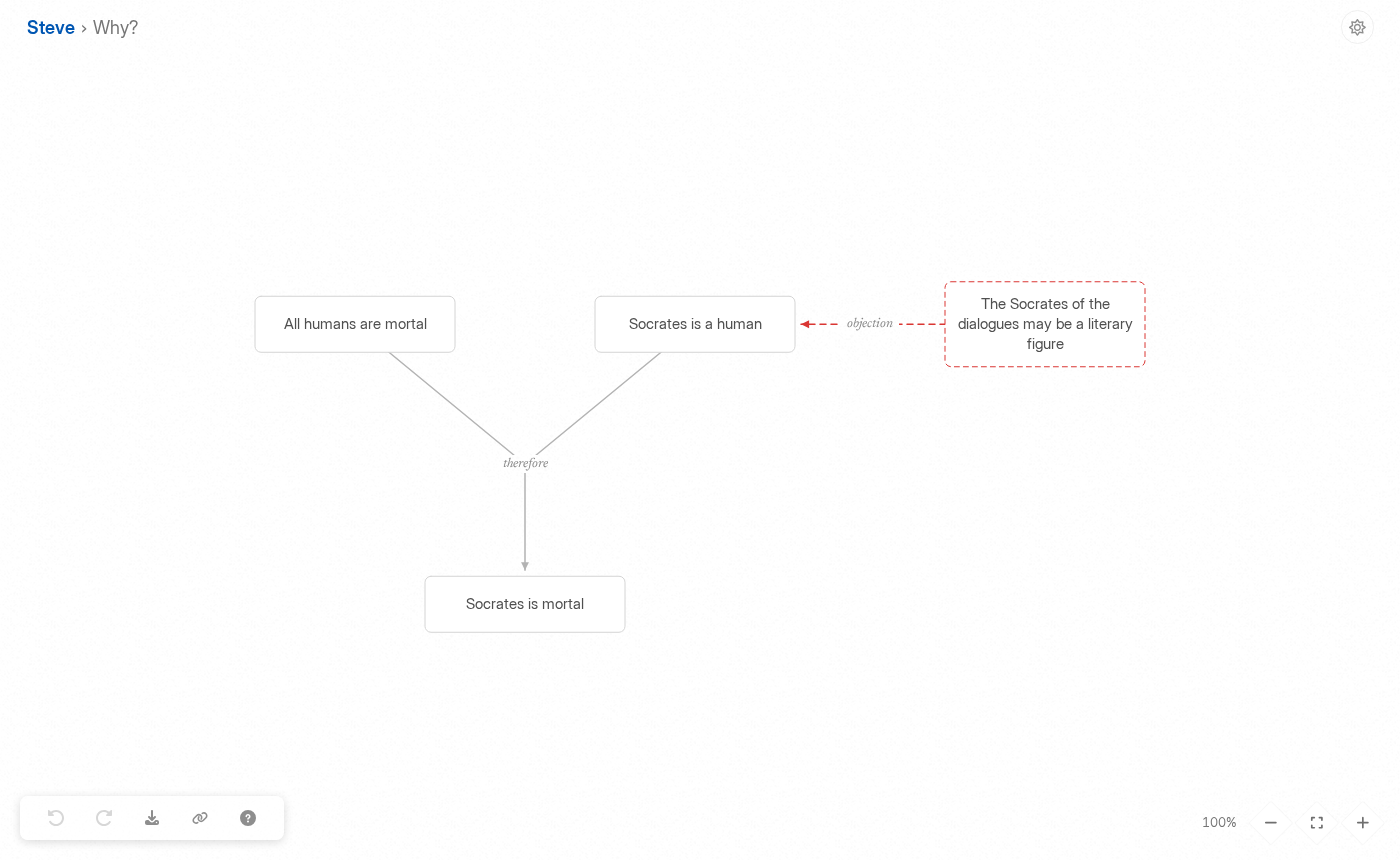
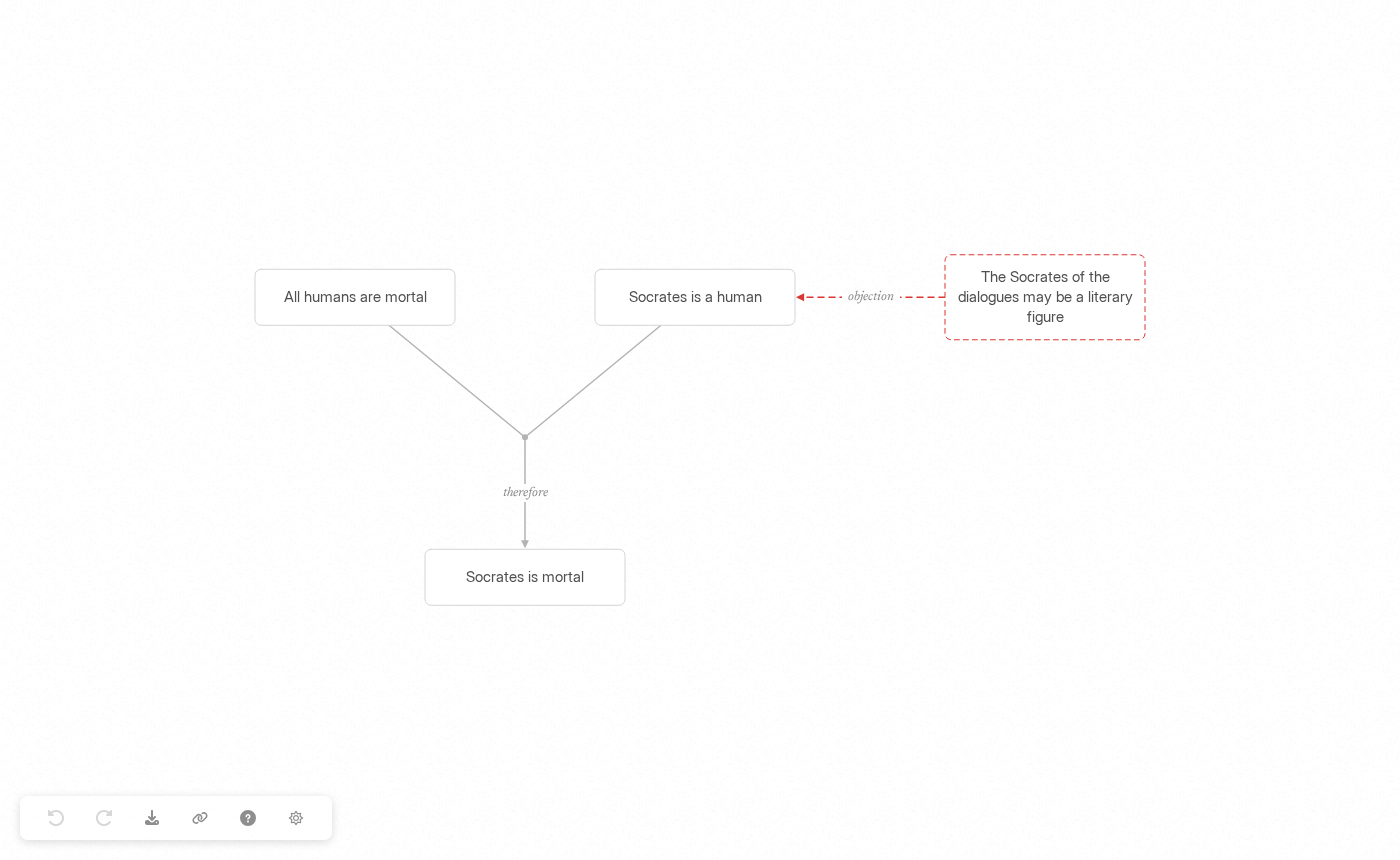
fix(ui): clean the space down to the menu and fit the arrows to the ideas
Route each link from the border of one idea to the border of the next, end
the line at the base of the arrowhead so no cap pokes past the tip, put the
tip on the target, and keep the label in the middle of the visible segment.
Remove the top bar, the breadcrumb, the zoom buttons and the empty-state hint,
move the light and dark switch into the floating menu, and update the tests,
the README and the images.

Claude-Session: https://claude.ai/code/session_01Xm9th7vZCS9qsYgGZBESBx

diff --git a/tests/e2e/app.spec.js b/tests/e2e/app.spec.js
@@ -20,10 +20,13 @@ async function canvasBox(page) {
   return page.locator('canvas.reasons-canvas').boundingBox();
 }
 
+async function scaleOf(page) {
+  return Number(await page.locator('main.workspace').getAttribute('data-scale'));
+}
+
 async function screenPoint(page, world) {
   const box = await canvasBox(page);
-  const level = await page.locator('.zoom .level').textContent();
-  const scale = parseInt(level, 10) / 100;
+  const scale = await scaleOf(page);
   return { x: box.x + box.width / 2 + world.x * scale, y: box.y + box.height / 2 + world.y * scale };
 }
 
@@ -40,10 +43,11 @@ test.beforeEach(async ({ page }) => {
 test('loads the default argument', async ({ page }) => {
   await expect(page).toHaveTitle('Think Why?');
   expect(await counts(page)).toEqual({ nodes: 3, edges: 1 });
-  await expect(page.getByRole('link', { name: 'Steve' })).toHaveAttribute('href', 'https://stevehoang.com');
+  await expect(page.getByRole('button', { name: 'Switch mode' })).toBeVisible();
   await expect(page.getByRole('button', { name: 'Undo' })).toBeDisabled();
   await expect(page.getByRole('button', { name: 'Redo' })).toBeDisabled();
-  await expect(page.locator('.zoom .level')).toHaveText(/\d+%/);
+  expect(await scaleOf(page)).toBeGreaterThan(0);
+  await expect(page.locator('.topbar, .breadcrumb, .zoom')).toHaveCount(0);
 });
 
 test('adds an idea by double-clicking empty space and saves it', async ({ page }) => {
@@ -117,18 +121,21 @@ test('keyboard selects, deletes, undoes and empties the map', async ({ page }) =
     await page.keyboard.press('Backspace');
   }
   await expect(page.locator('main.workspace')).toHaveAttribute('data-nodes', '0');
-  await expect(page.locator('.hint')).toContainText('Double-click anywhere to add a premise.');
-  await page.getByRole('button', { name: 'Fit to view' }).click();
-  await expect(page.locator('.zoom .level')).toHaveText('100%');
+  await page.keyboard.press('0');
+  await expect(page.locator('main.workspace')).toHaveAttribute('data-scale', '1.000');
 });
 
-test('zoom controls change the level and fit restores it', async ({ page }) => {
-  const level = page.locator('.zoom .level');
-  const before = await level.textContent();
-  await page.getByRole('button', { name: 'Zoom in' }).click();
-  await expect(level).not.toHaveText(before);
-  await page.getByRole('button', { name: 'Fit to view' }).click();
-  await expect(level).toHaveText(before);
+test('zooms with the keyboard and the wheel, and fits back', async ({ page }) => {
+  const main = page.locator('main.workspace');
+  const before = await main.getAttribute('data-scale');
+  await page.keyboard.press('+');
+  await expect(main).not.toHaveAttribute('data-scale', before);
+  await page.keyboard.press('0');
+  await expect(main).toHaveAttribute('data-scale', before);
+  const box = await canvasBox(page);
+  await page.mouse.move(box.x + box.width / 2, box.y + box.height / 2);
+  await page.mouse.wheel(0, -200);
+  await expect.poll(() => scaleOf(page)).toBeGreaterThan(Number(before));
 });
 
 test('switches between light and dark mode', async ({ page }) => {
@@ -147,7 +154,8 @@ test('shows the menu tips on hover', async ({ page }) => {
   await page.getByRole('button', { name: 'Help' }).hover();
   await expect(tips).toBeVisible();
   await expect(tips).toContainText('Double-click empty space to add an idea.');
-  await page.getByRole('button', { name: 'Zoom in' }).hover();
+  const box = await canvasBox(page);
+  await page.mouse.move(box.x + box.width / 2, box.y + 40);
   await expect(tips).toBeHidden();
 });
 

diff --git a/src/lib/reasons/layout.js b/src/lib/reasons/layout.js
@@ -30,25 +30,44 @@ export function boundaryPoint(from, rect, buffer = 0) {
   return { x: rect.x + ux * t, y: rect.y + uy * t };
 }
 
+const ARROW_GAP = 1;
+
+function midpoint(segment) {
+  return { x: (segment.x1 + segment.x2) / 2, y: (segment.y1 + segment.y2) / 2 };
+}
+
 export function routeEdge(edge, graph) {
   const sources = edge.from.map((id) => graph.find(id)).filter((n) => n && n.kind === 'node');
   const target = graph.find(edge.to);
   if (!sources.length || !target || target.kind !== 'node') {
     edge.paths = [];
     edge.center = null;
+    edge.labelAt = null;
     return;
   }
-  const all = [...sources, target];
-  const xs = all.map((n) => n.x);
-  const ys = all.map((n) => n.y);
-  const center = {
-    x: (Math.min(...xs) + Math.max(...xs)) / 2,
-    y: (Math.min(...ys) + Math.max(...ys)) / 2
-  };
-  edge.center = center;
-  edge.paths = sources.map((n) => ({ x1: n.x, y1: n.y, x2: center.x, y2: center.y }));
-  const end = boundaryPoint(center, target, 6);
-  edge.paths.push({ x1: center.x, y1: center.y, x2: end.x, y2: end.y });
+  if (sources.length === 1) {
+    const source = sources[0];
+    const start = boundaryPoint(target, source, 0);
+    const end = boundaryPoint(source, target, ARROW_GAP);
+    edge.paths = [{ x1: start.x, y1: start.y, x2: end.x, y2: end.y }];
+    edge.center = midpoint(edge.paths[0]);
+  } else {
+    const all = [...sources, target];
+    const xs = all.map((n) => n.x);
+    const ys = all.map((n) => n.y);
+    const junction = {
+      x: (Math.min(...xs) + Math.max(...xs)) / 2,
+      y: (Math.min(...ys) + Math.max(...ys)) / 2
+    };
+    edge.center = junction;
+    edge.paths = sources.map((n) => {
+      const start = boundaryPoint(junction, n, 0);
+      return { x1: start.x, y1: start.y, x2: junction.x, y2: junction.y };
+    });
+    const end = boundaryPoint(junction, target, ARROW_GAP);
+    edge.paths.push({ x1: junction.x, y1: junction.y, x2: end.x, y2: end.y });
+  }
+  edge.labelAt = midpoint(edge.paths[edge.paths.length - 1]);
 }
 
 export function arrowHead(segment, size = 9) {
@@ -79,9 +98,9 @@ export function rectsOverlap(a, b) {
 
 export function edgeHit(edge, p, tolerance) {
   if (!edge.center) return false;
-  if (edge.label) {
+  if (edge.label && edge.labelAt) {
     const halfWidth = edge.label.width / 2 + 4;
-    if (Math.abs(p.x - edge.center.x) <= halfWidth && Math.abs(p.y - edge.center.y) <= 10) return true;
+    if (Math.abs(p.x - edge.labelAt.x) <= halfWidth && Math.abs(p.y - edge.labelAt.y) <= 10) return true;
   }
   return edge.paths.some((segment) => distanceToSegment(p, segment) <= tolerance);
 }

diff --git a/src/lib/reasons/view.js b/src/lib/reasons/view.js
@@ -92,15 +92,18 @@ function drawEdge(ctx, edge, graph, theme, scale) {
   ctx.fillStyle = color;
   ctx.lineWidth = active ? 2 : 1.5;
   ctx.setLineDash(objection ? [6, 5] : []);
+  const last = edge.paths.length - 1;
+  const head = arrowHead(edge.paths[last]);
+  const base = { x: (head[1].x + head[2].x) / 2, y: (head[1].y + head[2].y) / 2 };
   ctx.beginPath();
-  edge.paths.forEach((s) => {
+  edge.paths.forEach((s, i) => {
     ctx.moveTo(s.x1, s.y1);
-    ctx.lineTo(s.x2, s.y2);
+    if (i === last) ctx.lineTo(base.x, base.y);
+    else ctx.lineTo(s.x2, s.y2);
   });
   ctx.stroke();
   ctx.setLineDash([]);
 
-  const head = arrowHead(edge.paths[edge.paths.length - 1]);
   ctx.beginPath();
   ctx.moveTo(head[0].x, head[0].y);
   ctx.lineTo(head[1].x, head[1].y);
@@ -119,11 +122,12 @@ function drawEdge(ctx, edge, graph, theme, scale) {
   const width = ctx.measureText(text).width;
   edge.label = { text, width };
   const pad = 6 / Math.max(scale, 0.5);
-  ctx.clearRect(edge.center.x - width / 2 - pad, edge.center.y - LABEL_SIZE * 0.7, width + pad * 2, LABEL_SIZE * 1.4);
+  const at = edge.labelAt;
+  ctx.clearRect(at.x - width / 2 - pad, at.y - LABEL_SIZE * 0.7, width + pad * 2, LABEL_SIZE * 1.4);
   ctx.fillStyle = active ? color : theme.edgeText;
   ctx.textAlign = 'center';
   ctx.textBaseline = 'middle';
-  ctx.fillText(text, edge.center.x, edge.center.y);
+  ctx.fillText(text, at.x, at.y);
 }
 
 function drawNode(ctx, node, theme) {

diff --git a/tests/unit/layout.test.js b/tests/unit/layout.test.js
@@ -71,11 +71,30 @@ describe('routeEdge', () => {
     routeEdge(edge, graph);
     expect(edge.center).toEqual({ x: 0, y: 0 });
     expect(edge.paths).toHaveLength(3);
+    const half = graph.find('c').height / 2;
+    const first = edge.paths[0];
+    expect(first.x1).toBeGreaterThan(-200);
+    expect(first.y1).toBeGreaterThan(-200);
     const last = edge.paths[2];
     expect(last.x2).toBe(0);
-    expect(last.y2).toBeLessThan(200 - graph.find('c').height / 2);
+    expect(last.y2).toBeCloseTo(200 - half - 1);
+    expect(edge.labelAt).toEqual({ x: 0, y: last.y2 / 2 });
     expect(edgeHit(edge, { x: -100, y: -100 }, 4)).toBe(true);
     expect(edgeHit(edge, { x: 150, y: 150 }, 4)).toBe(false);
+  });
+
+  it('routes a single premise border to border with the label in the middle', () => {
+    const graph = new Graph([
+      { id: 'a', text: 'A', x: 0, y: -200 },
+      { id: 'c', text: 'C', x: 0, y: 200 },
+      { id: 'e', from: 'a', to: 'c' }
+    ]);
+    const edge = graph.edges[0];
+    routeEdge(edge, graph);
+    const half = graph.find('a').height / 2;
+    expect(edge.paths).toEqual([{ x1: 0, y1: -200 + half, x2: 0, y2: 200 - half - 1 }]);
+    expect(edge.labelAt).toEqual({ x: 0, y: -0.5 });
+    expect(edge.center).toEqual(edge.labelAt);
   });
 
   it('clears paths when an endpoint is missing', () => {

diff --git a/src/App.svelte b/src/App.svelte
@@ -1,27 +1,23 @@
 <script>
-  import TopBar from './components/TopBar.svelte';
   import Menu from './components/Menu.svelte';
   import Canvas from './components/Canvas.svelte';
-  import ZoomControl from './components/ZoomControl.svelte';
-  import EmptyHint from './components/EmptyHint.svelte';
   import EditorDialog from './components/EditorDialog.svelte';
   import HelpDialog from './components/HelpDialog.svelte';
   import Toast from './components/Toast.svelte';
   import { map } from './lib/map.svelte.js';
 </script>
 
-<TopBar />
-
-<main class="workspace" aria-label="Argument map" data-nodes={map.nodes} data-edges={map.edges}>
+<main
+  class="workspace"
+  aria-label="Argument map"
+  data-nodes={map.nodes}
+  data-edges={map.edges}
+  data-scale={map.scale.toFixed(3)}
+>
   <Canvas />
-  {#if map.ready && map.nodes === 0}
-    <EmptyHint />
-  {/if}
-  <ZoomControl />
 </main>
 
 <Menu />
-
 <EditorDialog />
 <HelpDialog />
 <Toast />
@@ -29,9 +25,6 @@
 <style>
   .workspace {
     position: fixed;
-    top: calc(var(--topbar-height) + var(--safe-top));
-    right: 0;
-    bottom: 0;
-    left: 0;
+    inset: 0;
   }
 </style>

diff --git a/src/components/Menu.svelte b/src/components/Menu.svelte
@@ -1,6 +1,7 @@
 <script>
   import Icon from './Icon.svelte';
   import { actions, map } from '../lib/map.svelte.js';
+  import { flipTheme, theme } from '../lib/theme.svelte.js';
 
   let tips = $state(false);
 </script>
@@ -46,6 +47,10 @@
       onblur={() => (tips = false)}
     >
       <Icon name="help" />
+    </button>
+    <button type="button" class="item mode" title="Switch mode" aria-label="Switch mode" onclick={flipTheme}>
+      <Icon name="sun" class="mode-icon {theme.mode === 'light' ? 'shown' : ''}" />
+      <Icon name="moon" class="mode-icon {theme.mode === 'dark' ? 'shown' : ''}" />
     </button>
   </div>
 
@@ -112,6 +117,25 @@
 
   .item:disabled:hover {
     color: var(--site-btn-color);
+  }
+
+  .mode {
+    display: grid;
+    place-items: center;
+  }
+
+  .mode :global(.mode-icon) {
+    grid-area: 1 / 1;
+    opacity: 0;
+    transform: rotate(70deg) scale(0.55);
+    transition:
+      opacity 0.5s cubic-bezier(0.45, 0, 0.55, 1),
+      transform 0.5s cubic-bezier(0.45, 0, 0.55, 1);
+  }
+
+  .mode :global(.mode-icon.shown) {
+    opacity: 1;
+    transform: rotate(0) scale(1);
   }
 
   .tips {

diff --git a/src/app.css b/src/app.css
@@ -73,8 +73,6 @@
   --radius-xs: 4px;
   --radius-sm: 0.2rem;
   --radius-lg: 10px;
-  --topbar-height: 3rem;
-  --safe-top: env(safe-area-inset-top, 0px);
   --safe-bottom: env(safe-area-inset-bottom, 0px);
   --ease-swap: cubic-bezier(0.25, 0.4, 0.75, 0.6);
   --main-bg: light-dark(#ffffff, #000000);

diff --git a/src/lib/reasons/element.js b/src/lib/reasons/element.js
@@ -60,6 +60,7 @@ export function createEdge(data = {}) {
     to: refId(data.to),
     paths: [],
     center: null,
+    labelAt: null,
     label: null,
     focused: false,
     hovering: false

diff --git a/README.md b/README.md
@@ -29,7 +29,7 @@ Built with [Svelte 5](https://svelte.dev) and [Vite](https://vite.dev) on an ES-
 
 Three-finger swipes undo and redo on touch screens.
 
-The map is saved in the browser as you go. **Copy link** compresses the whole map into the address, so anyone with the link opens the same argument; links made with the previous version keep working. **Save as image** renders the map to a PNG in the current theme. The theme follows the system and can be flipped from the top bar, as on [stevehoang.com](https://stevehoang.com).
+The map is saved in the browser as you go. **Copy link** compresses the whole map into the address, so anyone with the link opens the same argument; links made with the previous version keep working. **Save as image** renders the map to a PNG in the current theme. Everything else lives in the floating menu: undo, redo, save as image, copy link, help, and the light/dark switch. The theme follows the system until you flip it, as on [stevehoang.com](https://stevehoang.com).
 
 ## Develop
 
